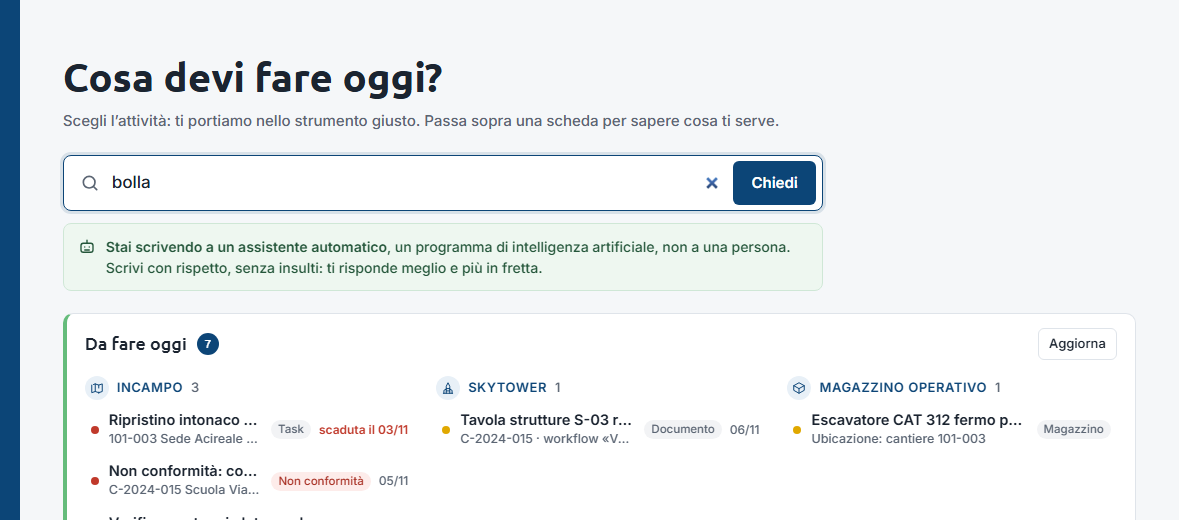
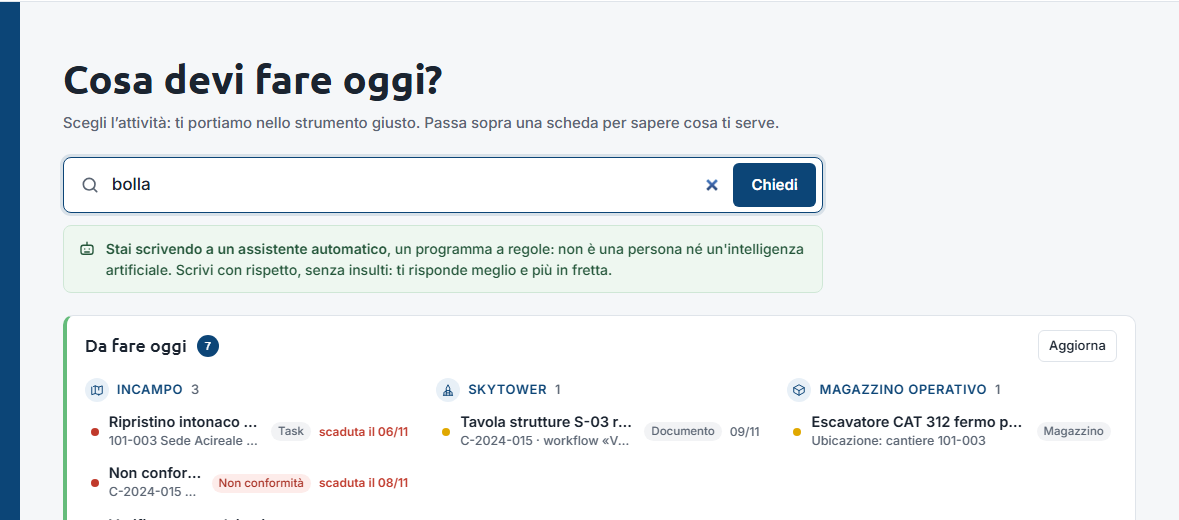
docs(portale): immagini 10, 21, 22 e 30 della guida rifatte con l'interfaccia del 06/11
portale/docs/guida/img/10-ricerca.png, 21-plancia.png, 22-barra-programmi.png e 30-utenti.png mostravano
ancora "Amministrazione", "Area riservata", la colonna azioni tagliata a 1440 px e l'assistente presentato
come intelligenza artificiale. Rifatte da un portale di prova (porta e dati temporanei, stessi utenti
inventati delle altre immagini; "Da fare oggi" simulato). La barra dei programmi ora è intera, con la
legenda Accesa/Spenta citata dal testo. 03-plancia.md §3.2: fra le voci di Gestione anche Abilitazioni.
Verifica: ogni immagine guardata; ancora del link calcolata con la stessa funzione di doc.js.

diff --git a/portale/docs/guida/03-plancia.md b/portale/docs/guida/03-plancia.md
@@ -45,8 +45,10 @@ La colonna di sinistra elenca tutti i programmi. Il quadratino a destra dice lo 
   Trimble, Auguri): non hanno spunte, seguono il ruolo. Non vanno confusi con i programmi
   *riservati* della pagina Abilitazioni (per esempio SkyTower), che arrivano anche agli
   utenti a cui l'amministratore mette la spunta.
-- **Gestione** porta alle pagine [Utenti](04-utenti.md), [Commesse](05-commesse.md),
-  [Registro accessi](06-registro-e-avvisi.md) e [Avvisi](06-registro-e-avvisi.md#62-gli-avvisi-dei-programmi).
+- **Gestione** porta alle pagine [Utenti](04-utenti.md),
+  [Abilitazioni](04-utenti.md#42b-tutte-le-abilitazioni-insieme-la-pagina-abilitazioni),
+  [Commesse](05-commesse.md), [Registro accessi](06-registro-e-avvisi.md) e
+  [Avvisi](06-registro-e-avvisi.md#62-gli-avvisi-dei-programmi).
 
 ## 3.3 Il calendario e i numeri del giorno
 
